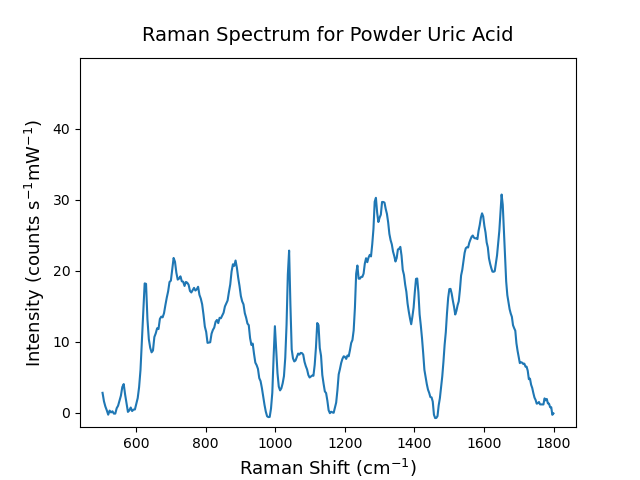
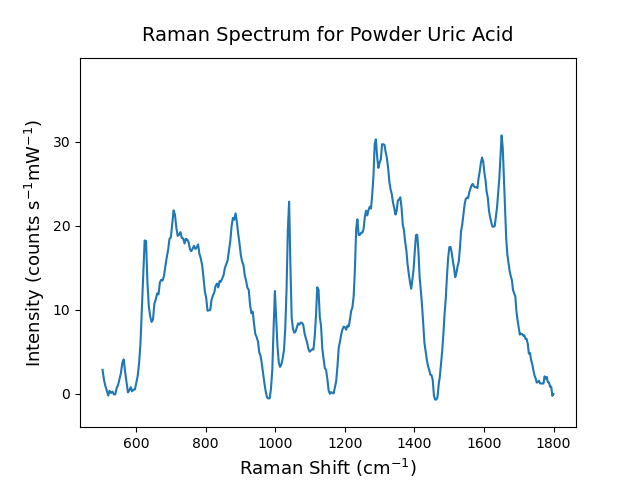
Add new

diff --git a/E_SERS_UA_CRN_MSc_Thesis/DataProcessing/AgNPs_quantification@0V.py b/E_SERS_UA_CRN_MSc_Thesis/DataProcessing/AgNPs_quantification@0V.py
@@ -1,12 +1,11 @@
 import pandas as pd
 import numpy as np
 from scipy import stats
-import matplotlib as mpl
 from matplotlib import pyplot as plt
 
 df_plot = pd.read_csv('../Data_csv/UA_quantification_average.csv')
 
-df_plot = df_plot[df_plot.Potential == -0.6].iloc[:, 4:].T.rename(columns=df_plot.UA)
+df_plot = df_plot[df_plot.Potential == 0].iloc[:, 4:].T.rename(columns=df_plot.UA)
 df_plot.index = pd.to_numeric(df_plot.index)
 
 fig = plt.figure(figsize=[6, 7])
@@ -20,15 +19,15 @@ for i, col in df_plot.iteritems():
     ax.scatter(col.index[228], col.values[228] + 50 + 400 * count, marker='x', color='black')
     count += 1
 
-ax.set_title('UA + 0.1M NaF + 10uM R6G for AgNPs-APTES-FTO at -0.6V', pad=10)
+ax.set_title('UA + 0.1M NaF + 10uM R6G for AgNPs-APTES-FTO at 0V', pad=10)
 ax.set_xlabel('Raman Shift ($\mathregular{cm^{-1}}$)')
 ax.set_ylabel('Intensity (counts $\mathregular{s^{-1}mW^{-1}}$)')
 
-plt.savefig('../Data_Fig/UA_quantification_1.png')
+plt.savefig('../Data_Fig/UA_quantification_3.png')
 plt.show()
 
 df_linear = pd.read_csv('../Data_csv/UA_quantification_average.csv')
-df_linear = df_linear[df_linear.Potential == -0.6].reset_index(drop=True)
+df_linear = df_linear[df_linear.Potential == 0].reset_index(drop=True)
 df_normalised = df_linear.iloc[:, 4:].copy()
 df_normalised = df_normalised.div(df_normalised['1362.89183'], axis=0)
 df_linear = pd.concat([df_linear['UA'], df_normalised['1131.63641']], axis=1)
@@ -39,7 +38,7 @@ y = df_linear.drop([0])['1131.63641']
 slope, intercept, r_value, p_value, std_err = stats.linregress(x, y)
 
 df_all = pd.read_csv('../Data_csv/UA_quantification_all.csv')
-df_all = df_all[df_all.Potential == -0.6].reset_index(drop=True)
+df_all = df_all[df_all.Potential == 0].reset_index(drop=True)
 df_normalised = df_all.iloc[:, 4:].copy()
 df_normalised = df_normalised.div(df_normalised['1362.89183'], axis=0)
 df_all = pd.concat([df_all['UA'], df_normalised['1131.63641']], axis=1)
@@ -48,7 +47,7 @@ data_mean = df_all.groupby(['UA'])['1131.63641'].mean()
 data_std = df_all.groupby(['UA'])['1131.63641'].std()
 
 ax = plt.subplot()
-ax.set_title('UA + 0.1M NaF + 10uM R6G for AgNPs-APTES-FTO at -0.6V', pad=10)
+ax.set_title('UA + 0.1M NaF + 10uM R6G for AgNPs-APTES-FTO at 0V', pad=10)
 ax.set_title('Linear relationship: \n\ny = ' + str(format(slope, '.5f')) + 'x + ' + str(format(intercept, '.5f'))
              + '\nR$^{2}$ = ' + str(format(r_value, '.5f')), loc='left', y=0.75, x=0.05)
 
@@ -66,5 +65,5 @@ linear_model_fn = np.poly1d(linear_model)
 x_s = np.arange(1, 16)
 plt.plot(x_s, linear_model_fn(x_s), color='red', linestyle='--')
 
-plt.savefig('../Data_Fig/UA_quantification_2.png')
+plt.savefig('../Data_Fig/UA_quantification_4.png')
 plt.show()

diff --git a/E_SERS_UA_CRN_MSc_Thesis/Initial_Raman/UA_powder.py b/E_SERS_UA_CRN_MSc_Thesis/Initial_Raman/UA_powder.py
@@ -5,7 +5,7 @@ from E_SERS_UA_CRN_MSc_Thesis.ALSBaselineCorrection import *
 df = pd.read_csv('../Initial_Raman/UA_Powder_RamanShift_2.txt',
                  header=None, names=['wave', 'intst'], skiprows=range(14), sep='\t')
 df = df[(df['wave'] > 500) & (df['wave'] < 1800)]
-df['intst'] = (df['intst'] - ALSBaselineCorrection(df['intst'])) / (7 * 22.5)
+df['intst'] = (df['intst'] - ALSBaselineCorrection(df['intst'], p=0.001)) / (7 * 22.5)
 
 df.to_csv('../Initial_Raman/UA_powder.csv', index=False)
 
@@ -13,12 +13,12 @@ wave, intst = df['wave'], df['intst']
 
 ax = plt.subplot()
 plt.plot(wave, intst)
-plt.ylim(-2, 50)
+plt.ylim(-4, 40)
 ax.set_title('Raman Spectrum for Powder Uric Acid', fontsize=14, pad=12)
 ax.set_xlabel('Raman Shift ($\mathregular{cm^{-1}}$)', fontsize=13)
 ax.set_ylabel('Intensity (counts $\mathregular{s^{-1}mW^{-1}}$)', fontsize=13)
-ax.set_yticks([0, 10, 20, 30, 40])
-ax.set_yticklabels(['0', '10', '20', '30', '40'])
+ax.set_yticks([0, 10, 20, 30])
+ax.set_yticklabels(['0', '10', '20', '30'])
 
 plt.savefig('../Initial_Raman/UA_powder.png')
 plt.show()

diff --git a/E_SERS_UA_CRN_MSc_Thesis/Initial_Raman/CRN_powder.py b/E_SERS_UA_CRN_MSc_Thesis/Initial_Raman/CRN_powder.py
@@ -14,7 +14,7 @@ wave, intst = df['wave'], df['intst']
 ax = plt.subplot()
 plt.plot(wave, intst)
 plt.ylim(-2, 28)
-ax.set_title('Raman Spectrum for powder Creatinine', fontsize=14, pad=12)
+ax.set_title('Raman Spectrum for Powder Creatinine', fontsize=14, pad=12)
 ax.set_xlabel('Raman Shift ($\mathregular{cm^{-1}}$)')
 ax.set_ylabel('Intensity (counts $\mathregular{s^{-1}mW^{-1}}$)')
 ax.set_yticks([0, 10, 20])
